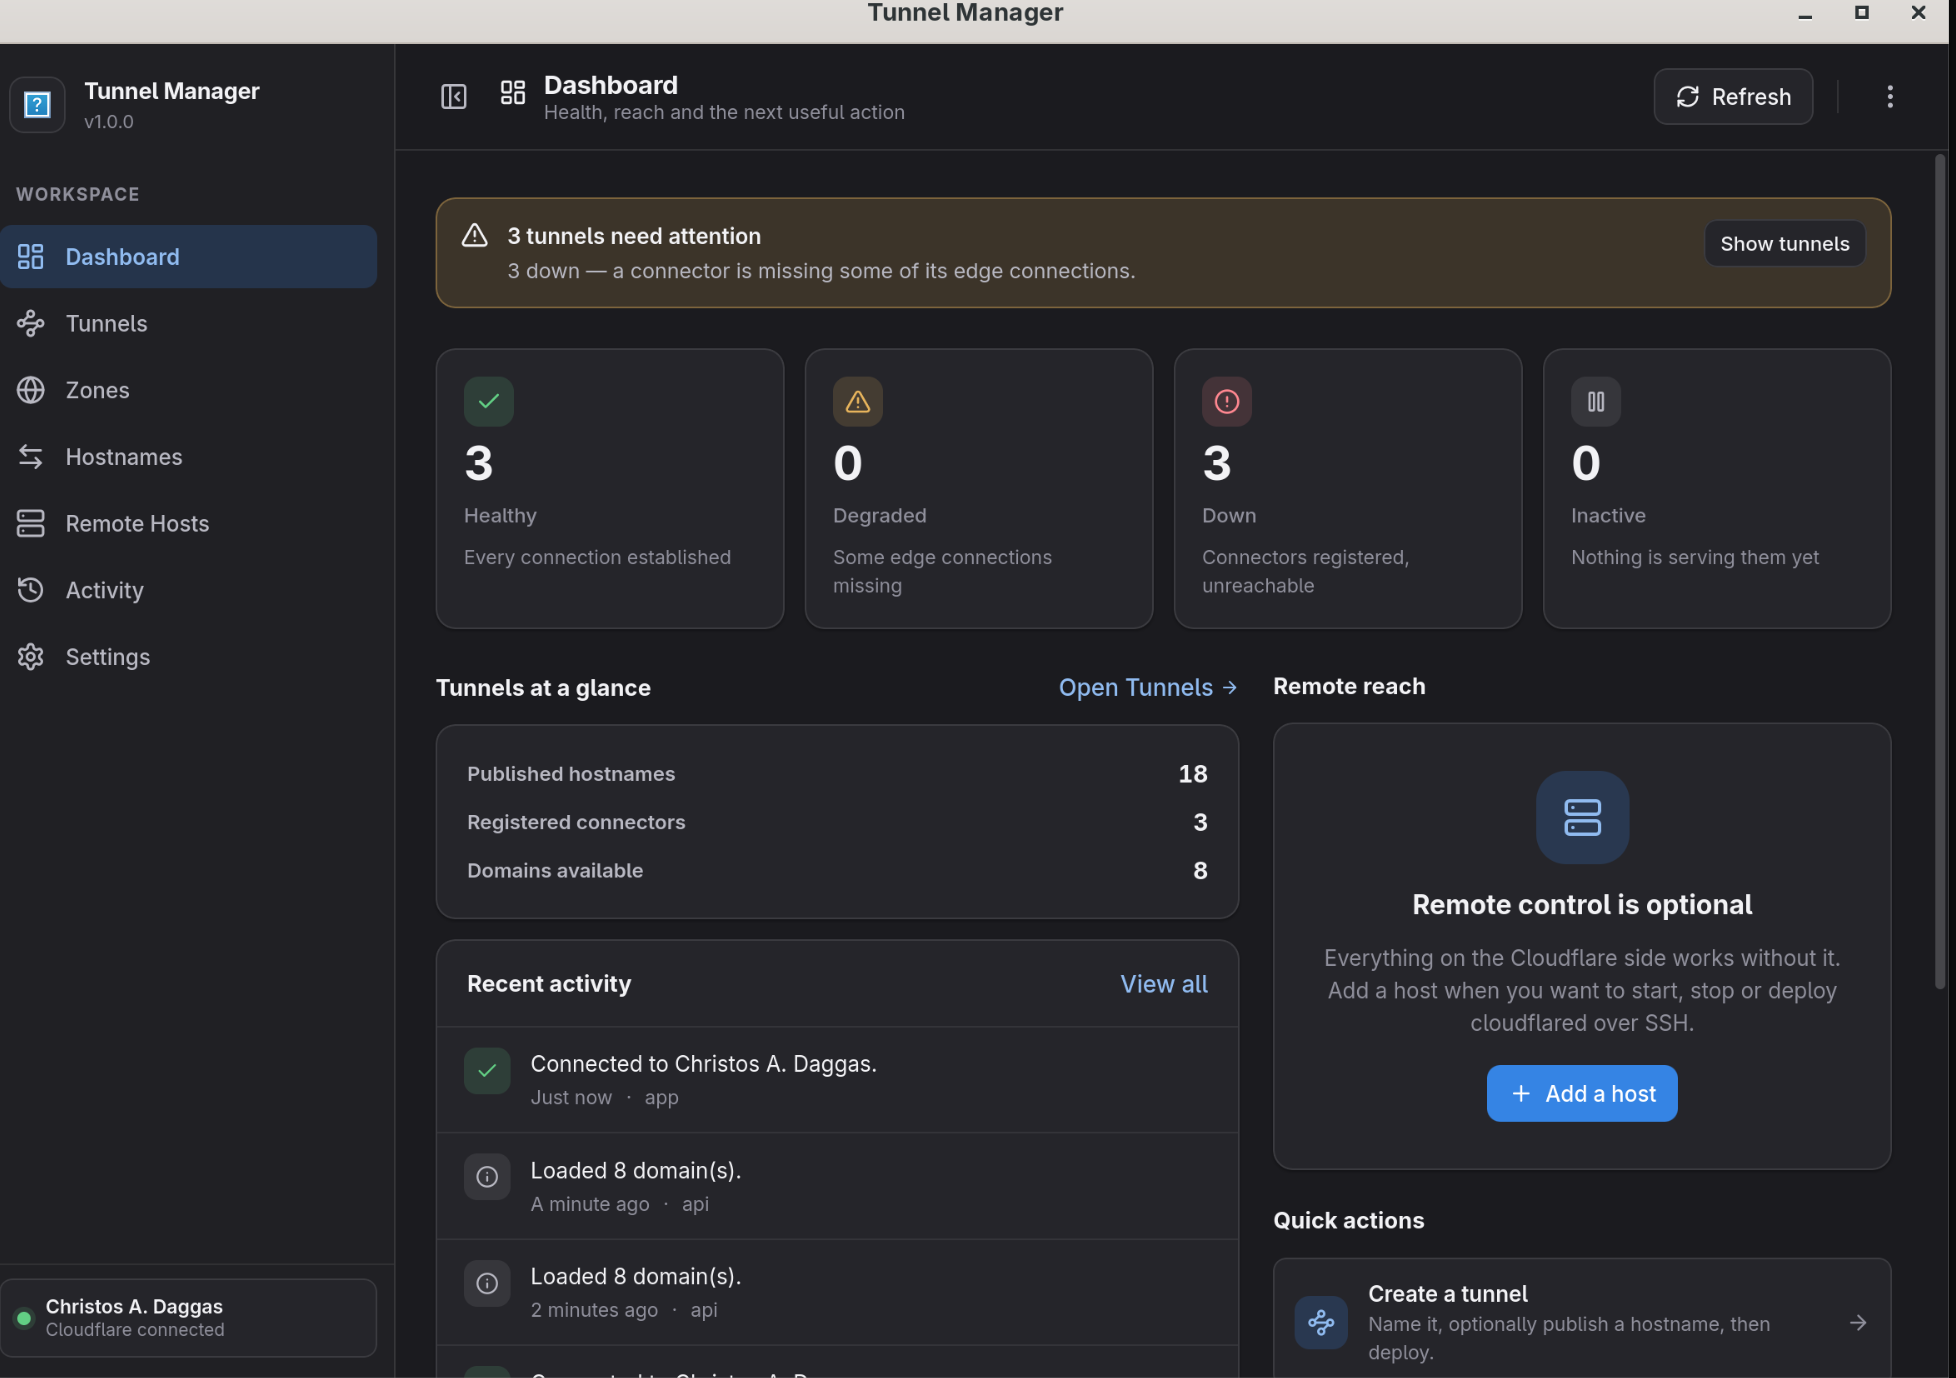
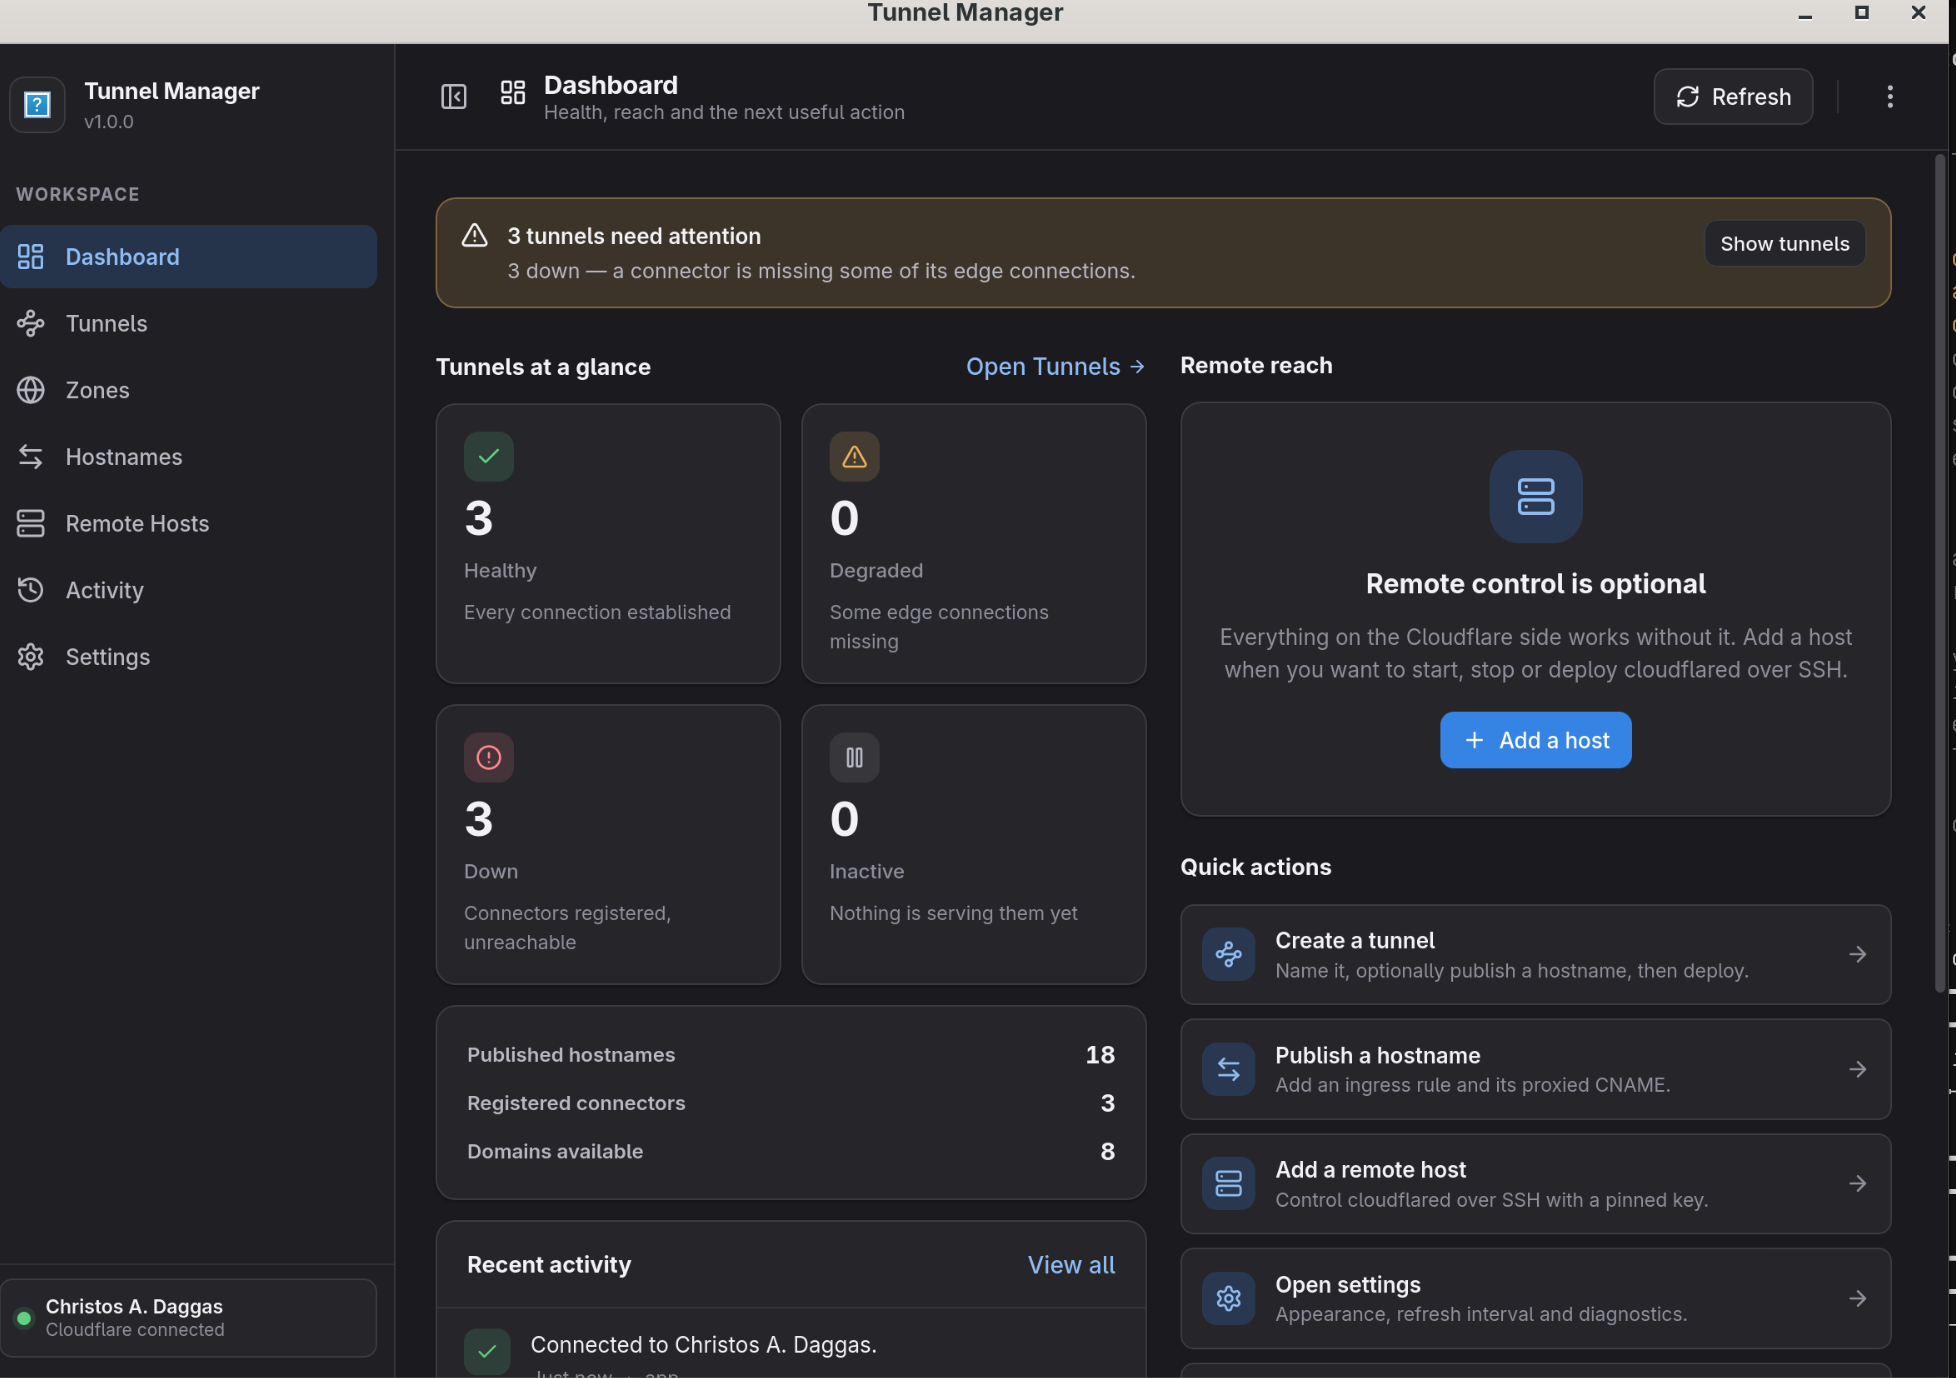
style: blend the header with the app background and split the dashboard 50/50
- Header now uses the same --bg as the content, with no translucent
  backdrop, so it reads as part of the page rather than a separate bar.
- The dashboard is a true two-column grid from the top: tunnels, stats and
  activity on the left; remote reach and quick actions on the right.
- Refresh the README screenshot.

diff --git a/frontend/src/pages/Dashboard.tsx b/frontend/src/pages/Dashboard.tsx
@@ -105,6 +105,19 @@ export function Dashboard() {
             </Banner>
           )}
 
+          <div className="dashboard-grid">
+            <section className="section">
+              <div className="section-heading">
+                <h2>Tunnels at a glance</h2>
+                <button
+                  type="button"
+                  className="btn-link"
+                  onClick={() => navigate({ page: "tunnels" })}
+                >
+                  Open Tunnels <ArrowRight size={12} style={{ verticalAlign: -1 }} />
+                </button>
+              </div>
+
           <div className="stat-grid">
             <StatCard
               value={counts.healthy}
@@ -139,19 +152,6 @@ export function Dashboard() {
               onClick={() => show("inactive")}
             />
           </div>
-
-          <div className="dashboard-grid">
-            <section className="section">
-              <div className="section-heading">
-                <h2>Tunnels at a glance</h2>
-                <button
-                  type="button"
-                  className="btn-link"
-                  onClick={() => navigate({ page: "tunnels" })}
-                >
-                  Open Tunnels <ArrowRight size={12} style={{ verticalAlign: -1 }} />
-                </button>
-              </div>
 
               <div className="card">
                 <div className="card-body stack-sm">

diff --git a/frontend/src/styles.css b/frontend/src/styles.css
@@ -23,7 +23,7 @@
   --bg: #fafafb;
   --bg-elevated: #ffffff;
   --bg-sidebar: #f1f1f4;
-  --bg-header: color-mix(in srgb, var(--bg) 84%, transparent);
+  --bg-header: var(--bg);
   --bg-hover: rgba(0, 0, 0, 0.045);
   --bg-active: rgba(0, 0, 0, 0.08);
   --bg-input: #ffffff;
@@ -75,7 +75,7 @@
   --bg: #1b1b1f;
   --bg-elevated: #25252a;
   --bg-sidebar: #202024;
-  --bg-header: color-mix(in srgb, var(--bg) 82%, transparent);
+  --bg-header: var(--bg);
   --bg-hover: rgba(255, 255, 255, 0.06);
   --bg-active: rgba(255, 255, 255, 0.1);
   --bg-input: #2a2a30;
@@ -450,7 +450,6 @@ p {
   padding: 0 18px;
   border-bottom: 1px solid var(--border);
   background: var(--bg-header);
-  backdrop-filter: blur(14px);
   position: sticky;
   top: 0;
   z-index: 20;
@@ -1971,14 +1970,22 @@ p {
 
 .dashboard-grid {
   display: grid;
-  grid-template-columns: minmax(0, 1.3fr) minmax(0, 1fr);
+  grid-template-columns: minmax(0, 1fr) minmax(0, 1fr);
   gap: 20px;
   align-items: start;
+}
+
+.dashboard-grid .stat-grid {
+  grid-template-columns: repeat(2, minmax(0, 1fr));
 }
 
 @media (max-width: 900px) {
   .dashboard-grid {
     grid-template-columns: 1fr;
+  }
+
+  .dashboard-grid .stat-grid {
+    grid-template-columns: repeat(auto-fit, minmax(158px, 1fr));
   }
 }
 
